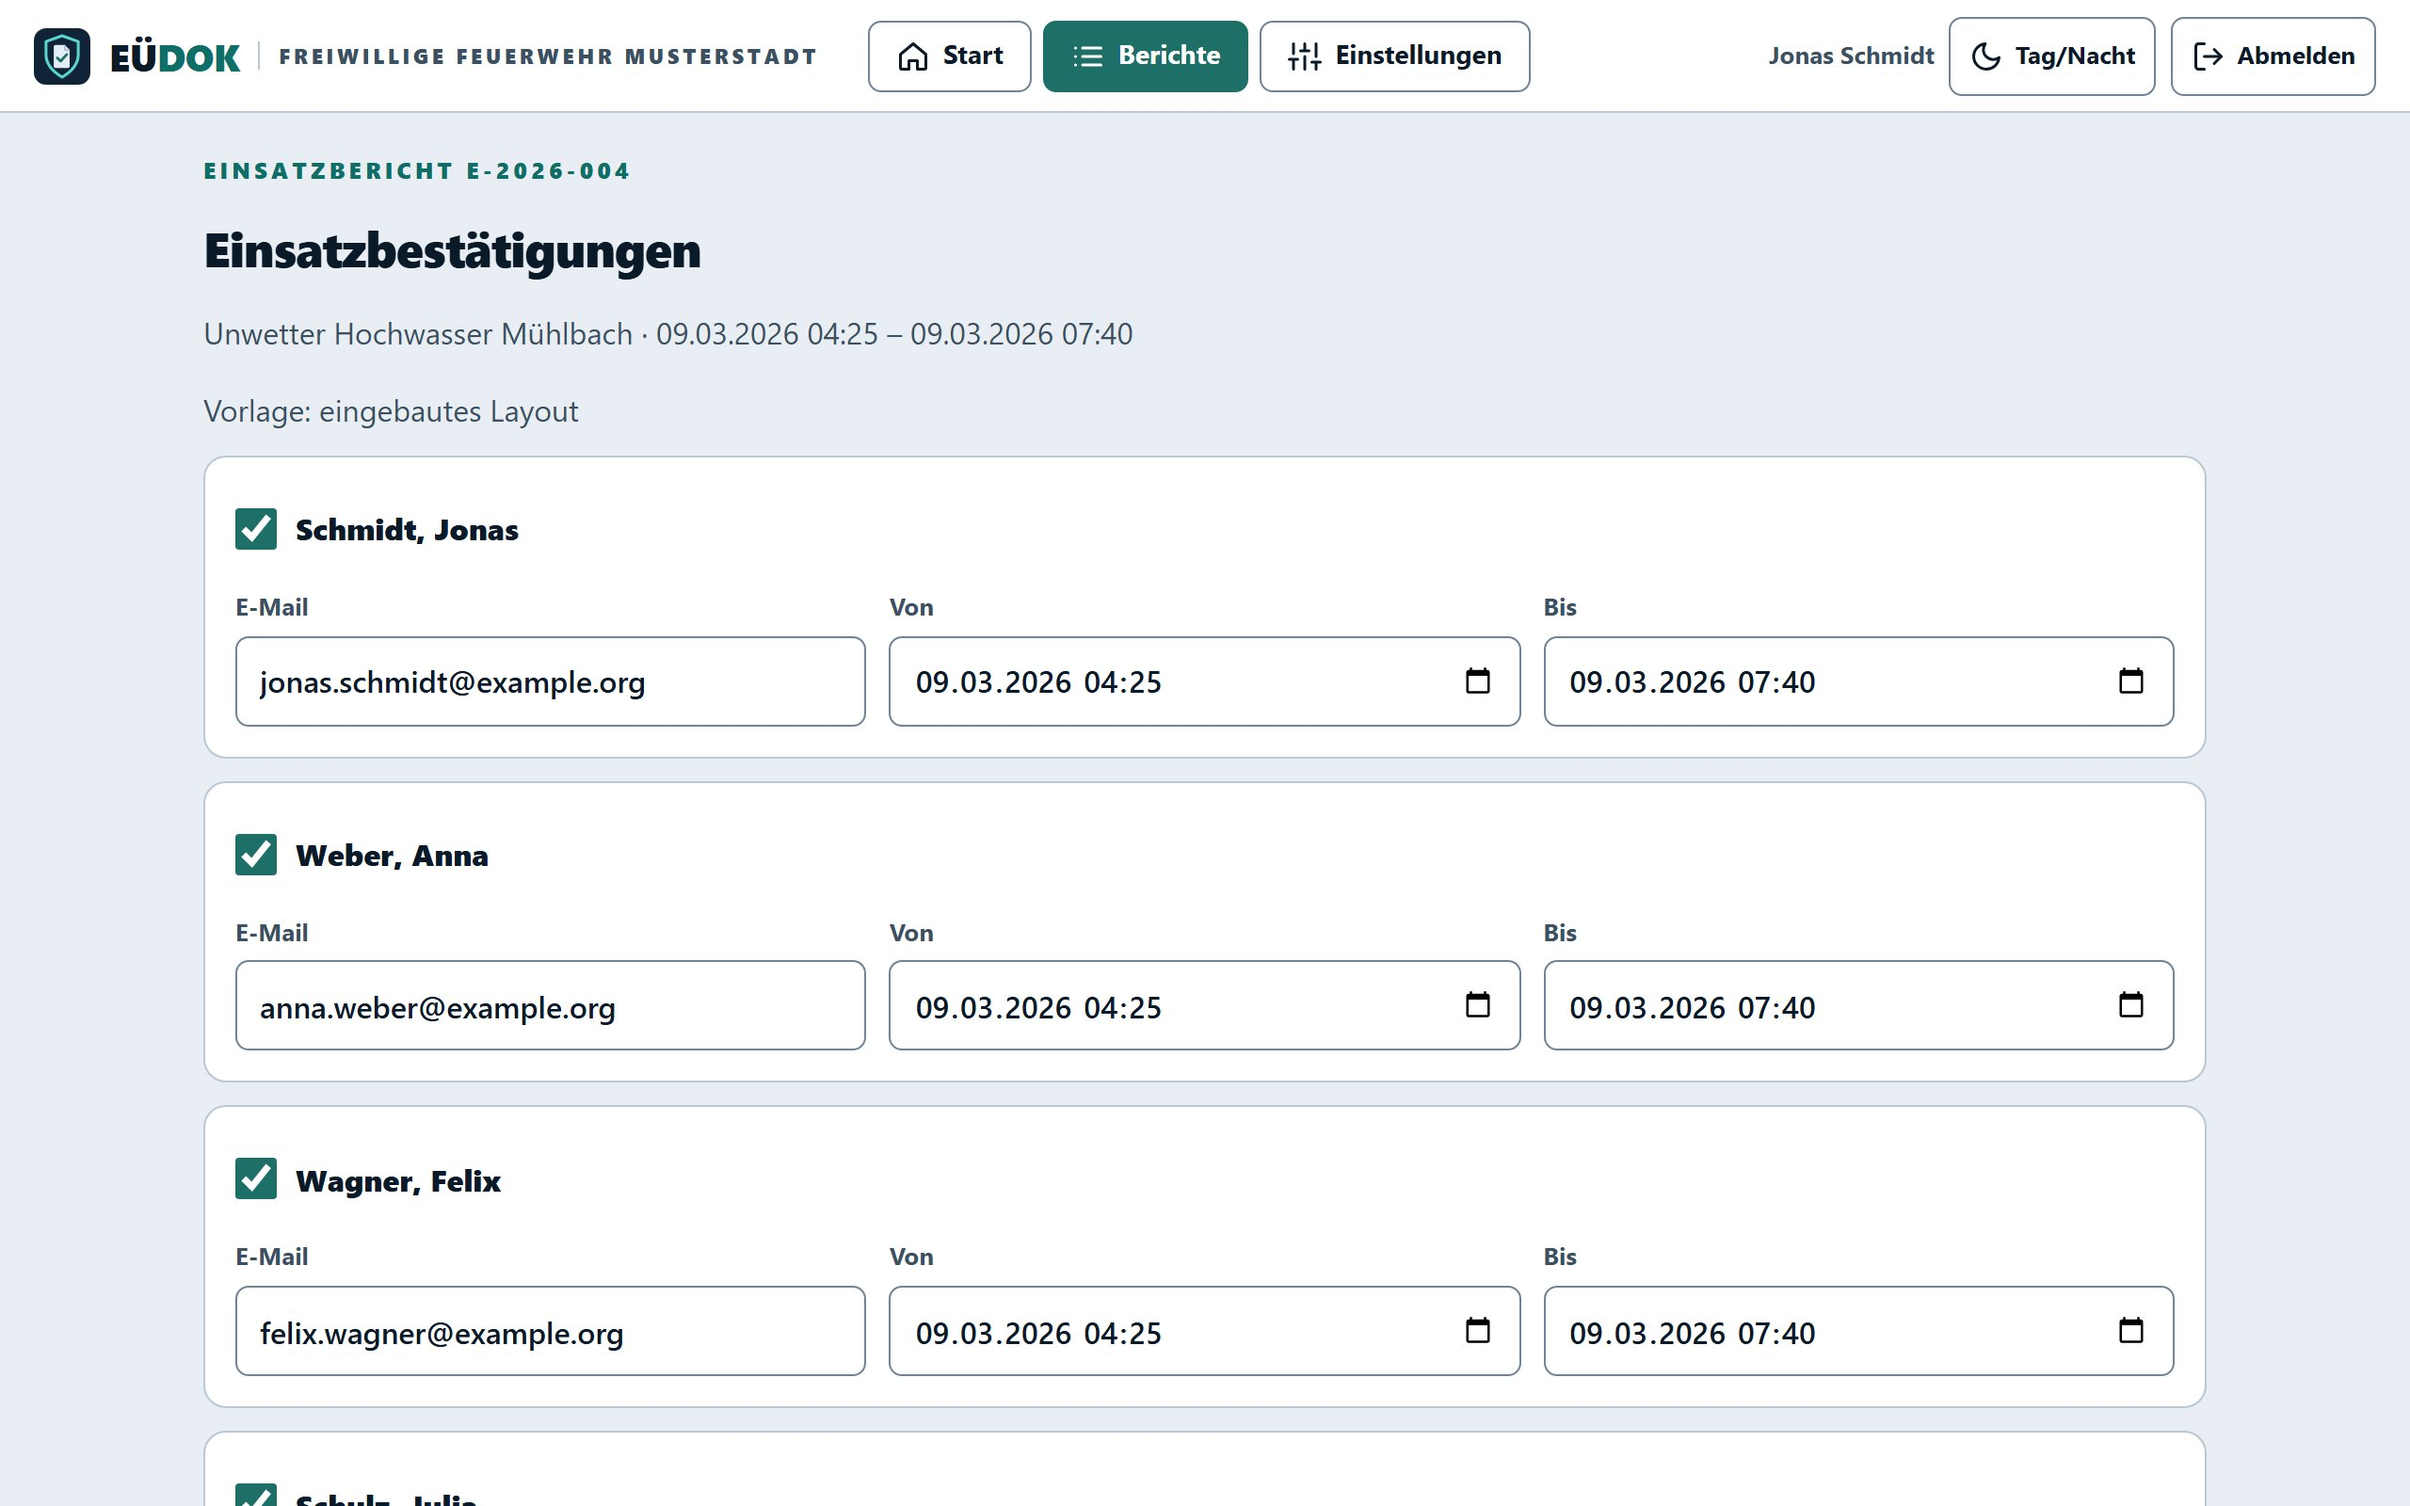
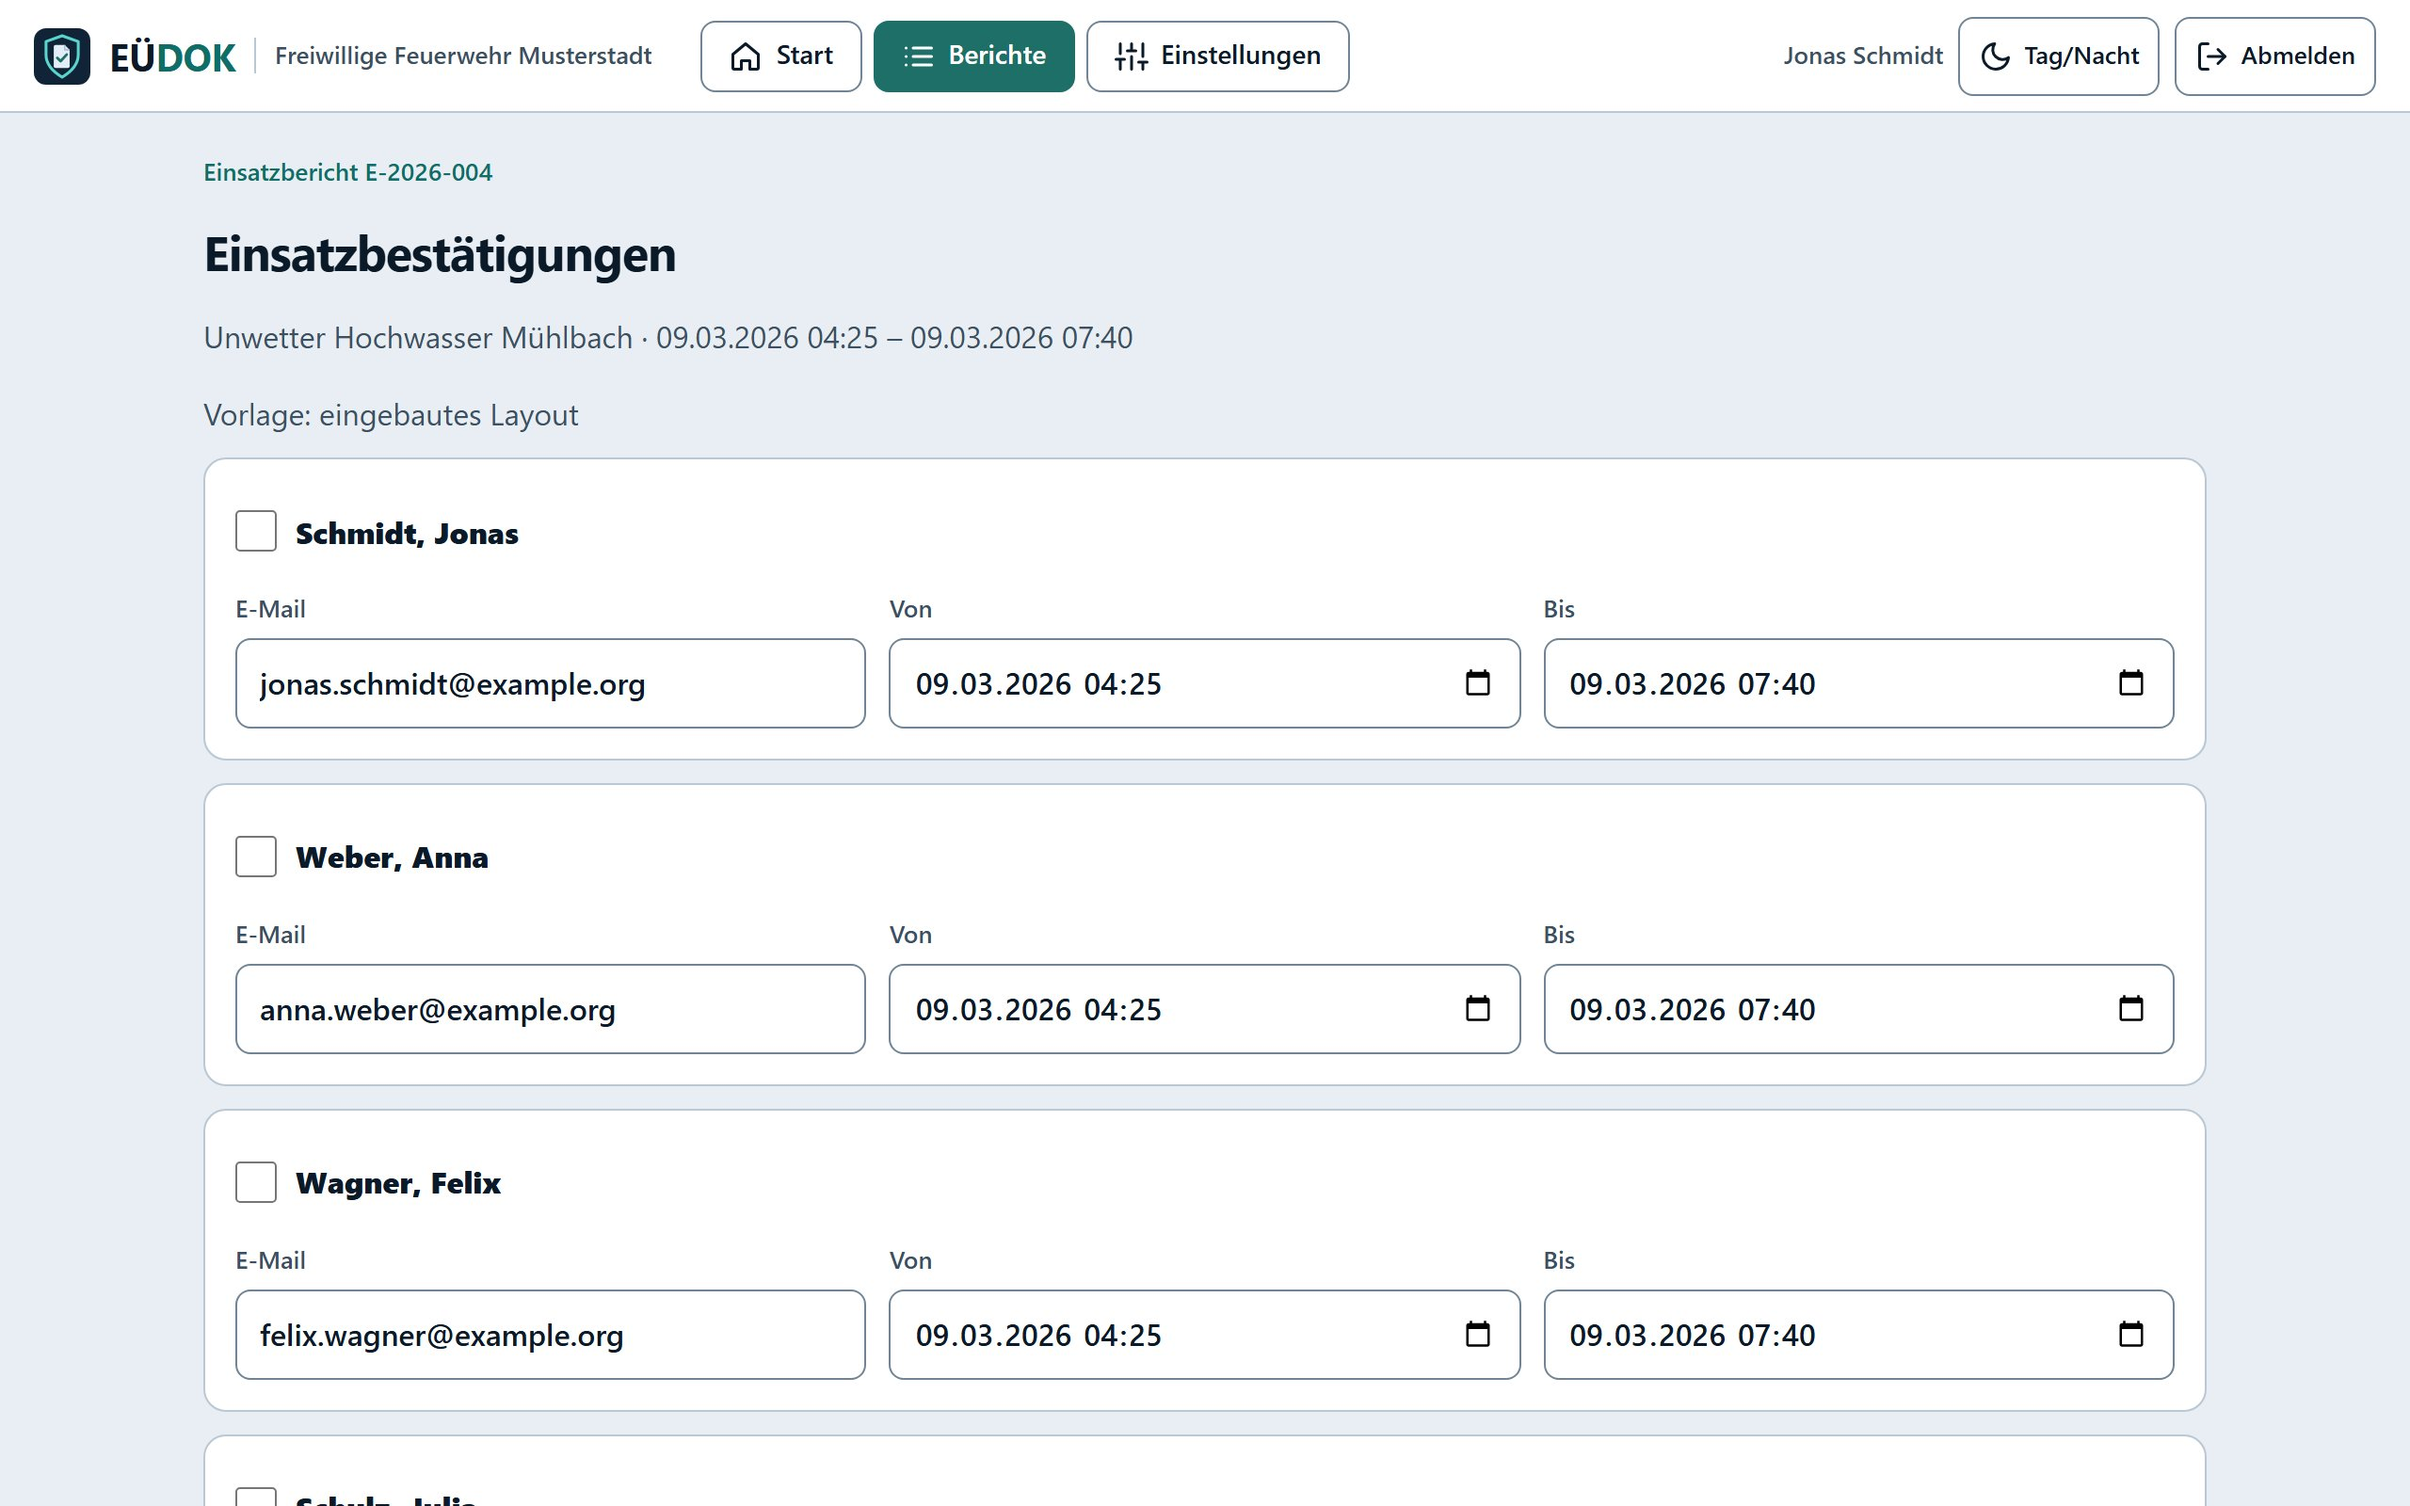
docs: Screenshots im neuen Design, Flyer-Link entfernt

diff --git a/README.md b/README.md
@@ -54,8 +54,6 @@ Alle Daten bleiben auf dem eigenen Server.
   <img src="docs/img/confirm-desk.jpg" width="420" alt="Einsatzbestätigungen versenden">
 </p>
 
-Mehr auf einen Blick: [Flyer (PDF)](design/flyer/EUEDOK_Flyer.pdf)
-
 ## Installation
 
 Voraussetzung: Webhosting mit PHP ≥ 8.1 (Erweiterungen `sodium`, `gd`, `zip`, `curl`, `mbstring`)
